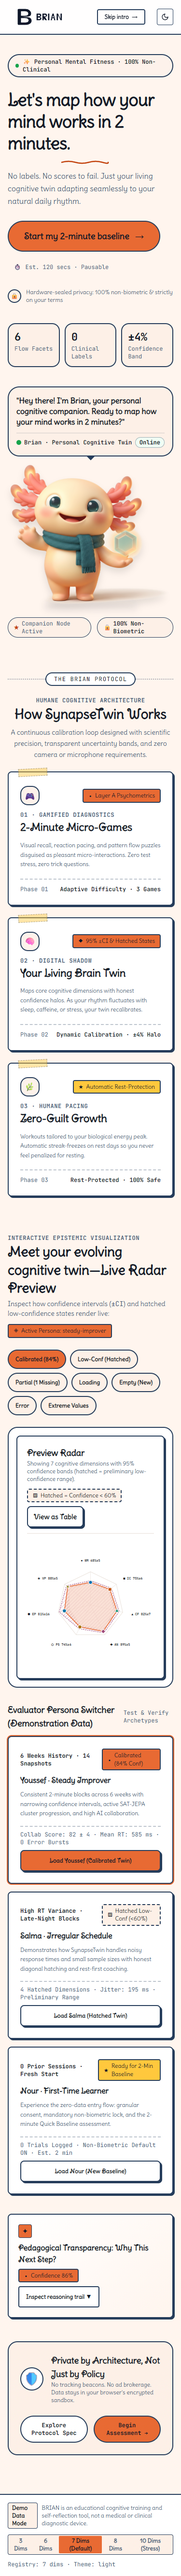
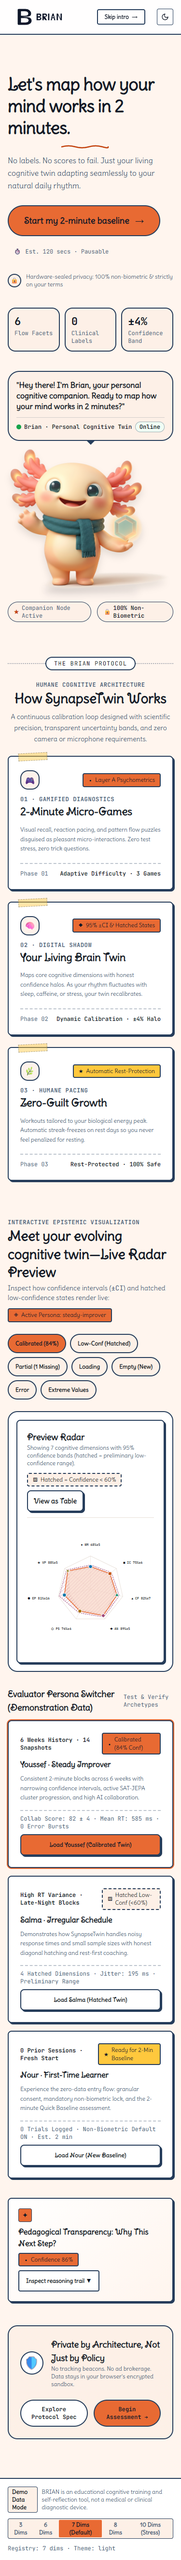
feat(welcome): remove eyebrow pill while preserving top navbar spacing

diff --git a/frontend/src/pages/WelcomePage.tsx b/frontend/src/pages/WelcomePage.tsx
@@ -195,13 +195,7 @@ export default function WelcomePage() {
         className="grid grid-cols-1 lg:grid-cols-12 gap-8 lg:gap-12 items-center pt-2 pb-6"
       >
         {/* Left Column: Narrative, Value Proposition & Primary CTA */}
-        <div className="lg:col-span-6 flex flex-col items-start gap-6">
-          {/* Warm Pill Eyebrow */}
-          <div className="inline-flex items-center gap-2 px-3.5 py-1.5 rounded-pill bg-brand-subtle border-2 border-border-strong text-ink font-mono text-xs shadow-doodle-sm">
-            <span className="inline-block w-2 h-2 rounded-pill bg-success animate-pulse" />
-            <span className="font-semibold">✨ Personal Mental Fitness · 100% Non-Clinical</span>
-          </div>
-
+        <div className="lg:col-span-6 flex flex-col items-start gap-6 pt-10 sm:pt-12 lg:pt-14">
           {/* Headline & Subtitle */}
           <div className="flex flex-col gap-3">
             <h1
